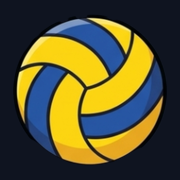
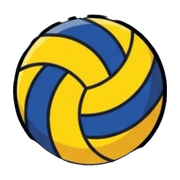
팀 대표색 적용, 앱 아이콘 흰 배경, 팀명 한 줄 표시
- HOME/AWAY를 팀별 대표색으로 표시 (색이 겹치면 AWAY는 보조 색상)
- 앱 아이콘 배경을 흰색으로 변경
- 후보 패널 팀 탭 이름을 글자 크기를 줄여 한 줄로 표시
- 선수 명단/최근 경기 1세트 선발 라인업 갱신

diff --git a/app.js b/app.js
@@ -5,6 +5,19 @@ const esc = s => String(s ?? '').replace(/[&<>"']/g, c => ({ '&': '&amp;', '<': 
 
 const SIDE_LABEL = { home: 'HOME', away: 'AWAY' };
 const SIDE_COLOR = { home: 'var(--home)', away: 'var(--away)' };
+const SIDE_FG = { home: 'var(--home-fg)', away: 'var(--away-fg)' };
+
+// 팀 대표색 [주 색상, 보조 색상]. 두 팀 주 색상이 비슷하면 AWAY 팀은 보조 색상을 쓴다.
+const TEAM_COLORS = {
+  '1001': ['#0067B1', '#D7182A'], // 대한항공 점보스
+  '1005': ['#1C3D8C', '#E1251B'], // 현대캐피탈 스카이워커스
+  '1009': ['#0094D9', '#1B3A93'], // 우리카드 우리WON
+  '1004': ['#FFBC00', '#5F574B'], // KB손해보험 스타즈
+  '1006': ['#E60012', '#F39800'], // 한국전력 빅스톰
+  '1008': ['#F26F21', '#B5121B'], // OK저축은행 읏맨
+  '1002': ['#1F4FB4', '#00A0E0'], // 삼성화재 블루팡스
+};
+const FALLBACK_COLORS = { home: ['#2a6fd6'], away: ['#e2392f'] };
 const LIB_ROLE = { recv: '리시브', dig: '디그' };
 
 // 코트 화면 배치 (lineup index: 0=1번 ... 5=6번)
@@ -64,8 +77,27 @@ function toast(msg) {
 }
 
 // ---------- 렌더링 ----------
+const rgb = hex => [1, 3, 5].map(i => parseInt(hex.slice(i, i + 2), 16));
+const colorDist = (a, b) => Math.hypot(...rgb(a).map((v, i) => v - rgb(b)[i]));
+// 밝은 배경엔 검은 글자, 어두운 배경엔 흰 글자
+const fgFor = hex => { const [r, g, b] = rgb(hex); return (r * 299 + g * 587 + b * 114) / 1000 > 160 ? '#111' : '#fff'; };
+
+function applyTeamColors() {
+  const [h] = TEAM_COLORS[st.home] || FALLBACK_COLORS.home;
+  const awayPair = TEAM_COLORS[st.away] || FALLBACK_COLORS.away;
+  let a = awayPair[0];
+  if (colorDist(h, a) < 120) {
+    // 주 색상이 겹치면 보조 색상, 그래도 겹치면 기본 빨강
+    a = awayPair.find(c => colorDist(h, c) >= 120) || (colorDist(h, '#e2392f') >= 120 ? '#e2392f' : '#2a6fd6');
+  }
+  const root = document.documentElement.style;
+  root.setProperty('--home', h); root.setProperty('--home-fg', fgFor(h));
+  root.setProperty('--away', a); root.setProperty('--away-fg', fgFor(a));
+}
+
 function render() {
   if (!st) return;
+  applyTeamColors();
   renderScorebar();
   renderCourt();
   renderBench();
@@ -115,7 +147,7 @@ function circleHTML(side, idx, libIdx) {
     inner = `<span class="no">${idx + 1}</span><span class="pos">자리</span>`;
   }
   const ball = server ? '<img class="serve-ball" src="icons/ball.png" alt="서브">' : '';
-  return `<div class="slot"><div class="pwrap"><button class="${cls.join(' ')}" style="--c:${SIDE_COLOR[side]}" data-act="slot" data-side="${side}" data-idx="${idx}">${inner}</button>${ball}</div></div>`;
+  return `<div class="slot"><div class="pwrap"><button class="${cls.join(' ')}" style="--c:${SIDE_COLOR[side]};--fc:${SIDE_FG[side]}" data-act="slot" data-side="${side}" data-idx="${idx}">${inner}</button>${ball}</div></div>`;
 }
 
 function renderCourt() {
@@ -197,7 +229,7 @@ function renderActions() {
   if (st.phase === 'play') {
     el.innerHTML = `
       <div class="score-row">
-        ${S.SIDES.map(s => `<button class="score-btn" style="--c:${SIDE_COLOR[s]}" data-act="score" data-side="${s}">
+        ${S.SIDES.map(s => `<button class="score-btn" style="--c:${SIDE_COLOR[s]};--fc:${SIDE_FG[s]}" data-act="score" data-side="${s}">
           ${SIDE_LABEL[s]} 득점<small>${esc(teamOf(s)?.name)}</small></button>`).join('')}
       </div>
       <div class="tool-row">
@@ -211,7 +243,7 @@ function renderActions() {
     el.innerHTML = `
       <div class="lineup-hint">${note ? `최근 경기 1세트 선발 (${note})<br>` : ''}자리를 탭해 선수 변경 · 자리 두 곳을 차례로 탭하면 교환</div>
       <div class="serve-pick">첫 서브
-        ${S.SIDES.map(s => `<button class="seg ${st.serving === s ? 'on' : ''}" style="--c:${SIDE_COLOR[s]}" data-act="serve" data-side="${s}">${esc(teamOf(s)?.name)}</button>`).join('')}
+        ${S.SIDES.map(s => `<button class="seg ${st.serving === s ? 'on' : ''}" style="--c:${SIDE_COLOR[s]};--fc:${SIDE_FG[s]}" data-act="serve" data-side="${s}">${esc(teamOf(s)?.name)}</button>`).join('')}
       </div>
       <div class="tool-row four">
         <button class="tool-btn" data-act="undo" ${st.history.length ? '' : 'disabled'}>↶ 되돌리기</button>
@@ -308,8 +340,8 @@ function setEndModal(winner) {
       <h2>${st.setNo}세트 종료</h2>
       <p>현재 ${sc} · 세트를 가져간 팀을 고르세요</p>
       <div class="btn-row">
-        <button class="btn" data-m="home" style="color:var(--home)">${esc(teamOf('home')?.name)}</button>
-        <button class="btn" data-m="away" style="color:var(--away)">${esc(teamOf('away')?.name)}</button>
+        <button class="btn" data-m="home" style="background:var(--home);color:var(--home-fg)">${esc(teamOf('home')?.name)}</button>
+        <button class="btn" data-m="away" style="background:var(--away);color:var(--away-fg)">${esc(teamOf('away')?.name)}</button>
       </div>
       <div class="btn-row"><button class="btn" data-m="cancel" style="grid-column:span 2">취소</button></div>`, m => {
       closeModal();

diff --git a/styles.css b/styles.css
@@ -12,6 +12,8 @@
   --ok: #3ddc84;
   --home: #2a6fd6;
   --away: #e2392f;
+  --home-fg: #fff;
+  --away-fg: #fff;
   --radius: 12px;
   color-scheme: dark;
 }
@@ -126,6 +128,7 @@ button { font: inherit; color: inherit; border: 0; background: none; cursor: poi
   --c: var(--home);
   width: min(30cqw, 47cqh); aspect-ratio: 1; border-radius: 50%;
   background: var(--c);
+  color: var(--fc, #fff);
   border: 2px solid #fff;
   box-shadow: 0 2px 6px #0007;
   display: flex; flex-direction: column; align-items: center; justify-content: center;
@@ -157,8 +160,12 @@ button { font: inherit; color: inherit; border: 0; background: none; cursor: poi
   display: flex; flex-direction: column; min-height: 0;
   background: var(--panel); border: 1px solid var(--line); border-radius: var(--radius); overflow: hidden;
 }
-#bench-tabs { display: grid; grid-template-columns: 1fr 1fr; flex: none; }
-.tab { padding: 9px 2px; font-size: 12px; font-weight: 800; color: var(--muted); border-bottom: 2px solid transparent; }
+#bench-tabs { display: grid; grid-template-columns: 1fr 1fr; flex: none; container-type: inline-size; }
+/* 팀명은 항상 한 줄: 탭 폭(패널의 절반)에 맞춰 글자 크기를 줄인다 */
+.tab {
+  padding: 9px 1px; font-size: min(12px, 7.6cqw); letter-spacing: -.03em; font-weight: 800; color: var(--muted);
+  border-bottom: 2px solid transparent; white-space: nowrap; overflow: hidden; text-overflow: ellipsis; min-width: 0;
+}
 .tab.active { color: var(--text); border-bottom-color: var(--tc, var(--accent)); background: var(--panel-2); }
 #bench-list { list-style: none; margin: 0; padding: 4px; overflow-y: auto; flex: 1; -webkit-overflow-scrolling: touch; }
 #bench-list li + li { margin-top: 3px; }
@@ -181,7 +188,7 @@ button { font: inherit; color: inherit; border: 0; background: none; cursor: poi
 #actions { padding: 8px 6px 8px; display: flex; flex-direction: column; gap: 6px; }
 .score-row { display: grid; grid-template-columns: 1fr 1fr; gap: 6px; }
 .score-btn {
-  height: 72px; border-radius: 14px; font-size: 19px; font-weight: 900; color: #fff;
+  height: 72px; border-radius: 14px; font-size: 19px; font-weight: 900; color: var(--fc, #fff);
   background: var(--c); box-shadow: inset 0 -4px 0 #0003;
   display: flex; flex-direction: column; align-items: center; justify-content: center; line-height: 1.15;
 }
@@ -195,7 +202,7 @@ button { font: inherit; color: inherit; border: 0; background: none; cursor: poi
 .lineup-hint { font-size: 12px; color: var(--muted); text-align: center; }
 .serve-pick { display: grid; grid-template-columns: auto 1fr 1fr; gap: 6px; align-items: center; font-size: 12px; color: var(--muted); }
 .seg { height: 38px; border-radius: 10px; background: var(--panel-2); border: 1px solid var(--line); font-size: 13px; font-weight: 700; }
-.seg.on { background: var(--c, var(--accent)); color: #fff; border-color: transparent; }
+.seg.on { background: var(--c, var(--accent)); color: var(--fc, #fff); border-color: transparent; }
 .primary-btn { height: 56px; border-radius: 14px; background: var(--accent); color: #1a1a1a; font-size: 18px; font-weight: 900; }
 .primary-btn:disabled { opacity: .4; }
 

diff --git a/sw.js b/sw.js
@@ -1,5 +1,5 @@
 // 앱 셸 캐시: 캐시 우선 + 백그라운드 갱신 (경기장 네트워크 불안정 대비)
-const CACHE = 'v-rotation-v3';
+const CACHE = 'v-rotation-v4';
 const ASSETS = ['./', 'index.html', 'styles.css', 'app.js', 'state.js', 'data/players.json',
   'manifest.webmanifest', 'icons/icon-192.png', 'icons/icon-512.png', 'icons/icon-maskable-512.png',
   'icons/apple-touch-icon.png', 'icons/ball.png'];

diff --git a/scripts/make_icons.py b/scripts/make_icons.py
@@ -17,9 +17,10 @@ def fit(size, scale, bg=None):
     canvas.alpha_composite(ball.resize((b, b), Image.LANCZOS), ((size - b) // 2, (size - b) // 2))
     return canvas
 
+WHITE = (255, 255, 255, 255)
 for size in (192, 512):
-    fit(size, 0.94).save(root / f'icon-{size}.png')                      # 일반 아이콘 (투명 배경)
-fit(512, 0.72, (15, 20, 32, 255)).save(root / 'icon-maskable-512.png')  # 안드로이드 적응형 아이콘
-fit(180, 0.86, (15, 20, 32, 255)).save(root / 'apple-touch-icon.png')
+    fit(size, 0.86, WHITE).save(root / f'icon-{size}.png')               # 일반 아이콘 (흰 배경)
+fit(512, 0.72, WHITE).save(root / 'icon-maskable-512.png')              # 안드로이드 적응형 아이콘
+fit(180, 0.86, WHITE).save(root / 'apple-touch-icon.png')
 fit(64, 1.0).save(root / 'ball.png')                                     # 서브 표시용
 print('done')

diff --git a/scripts/fetch_players.py b/scripts/fetch_players.py
@@ -75,5 +75,12 @@ for t in TEAMS:
     print(f"{t['name']}: {len(players)}명 | {desc}")
 
 dest = pathlib.Path(__file__).resolve().parent.parent / 'data' / 'players.json'
-dest.write_text(json.dumps(out, ensure_ascii=False, indent=1), encoding='utf-8')
-print('저장:', dest)
+try:
+    prev = json.loads(dest.read_text(encoding='utf-8'))
+except (OSError, ValueError):
+    prev = None
+if prev and prev.get('teams') == out['teams']:
+    print('변경 없음:', dest)  # updatedAt만 바뀌는 불필요한 커밋 방지
+else:
+    dest.write_text(json.dumps(out, ensure_ascii=False, indent=1), encoding='utf-8')
+    print('저장:', dest)
